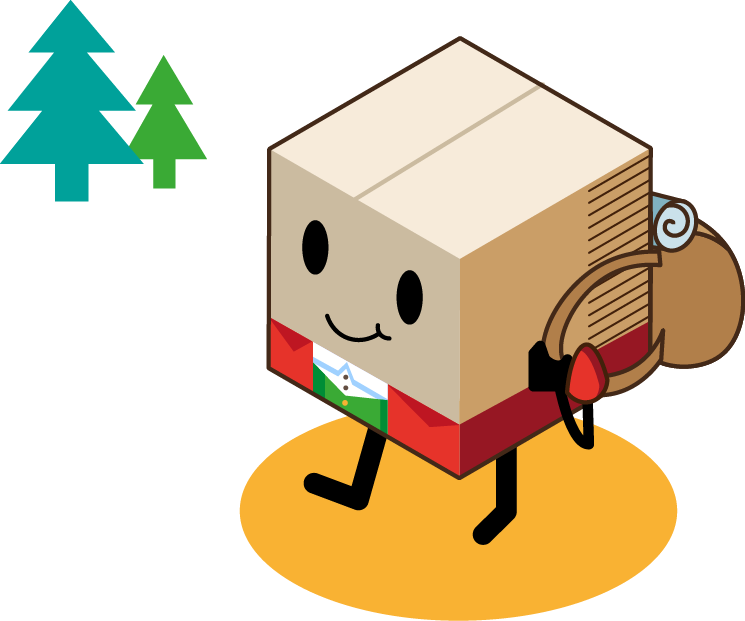
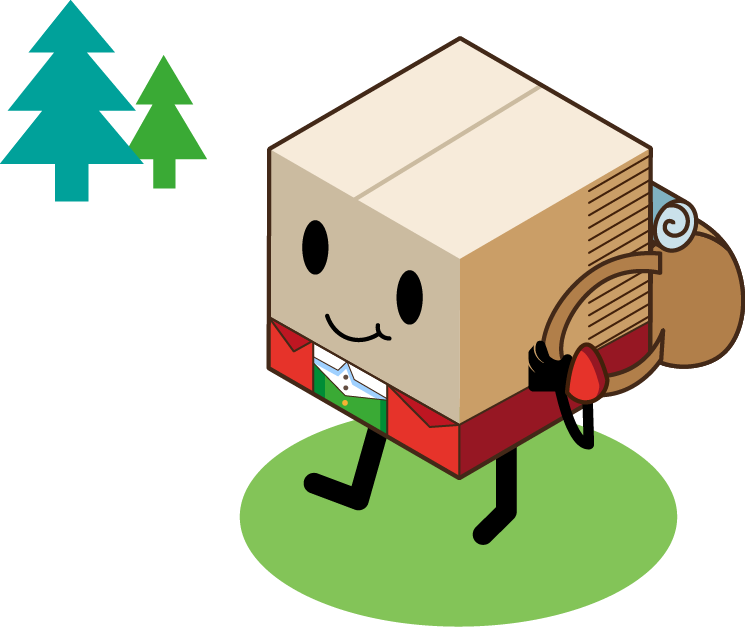
illustration update

diff --git a/index.html b/index.html
@@ -1,5 +1,5 @@
 <!DOCTYPE html>
-<html lang="sv">
+<html lang="en">
 
 <head>
   <meta charset="UTF-8">
@@ -82,7 +82,7 @@
         <a href="#healthy">
           <div class="sub-container">
             <div class="imgbox">
-              <img src="img/box-stressed.png" alt="Stressed?" title="Stressed?" />
+              <img src="img/box-healthy.png" alt="Stressed?" title="Stressed?" />
             </div>
             <div class="textbox-2">
               <h1>the healthy - gift box</h1>
